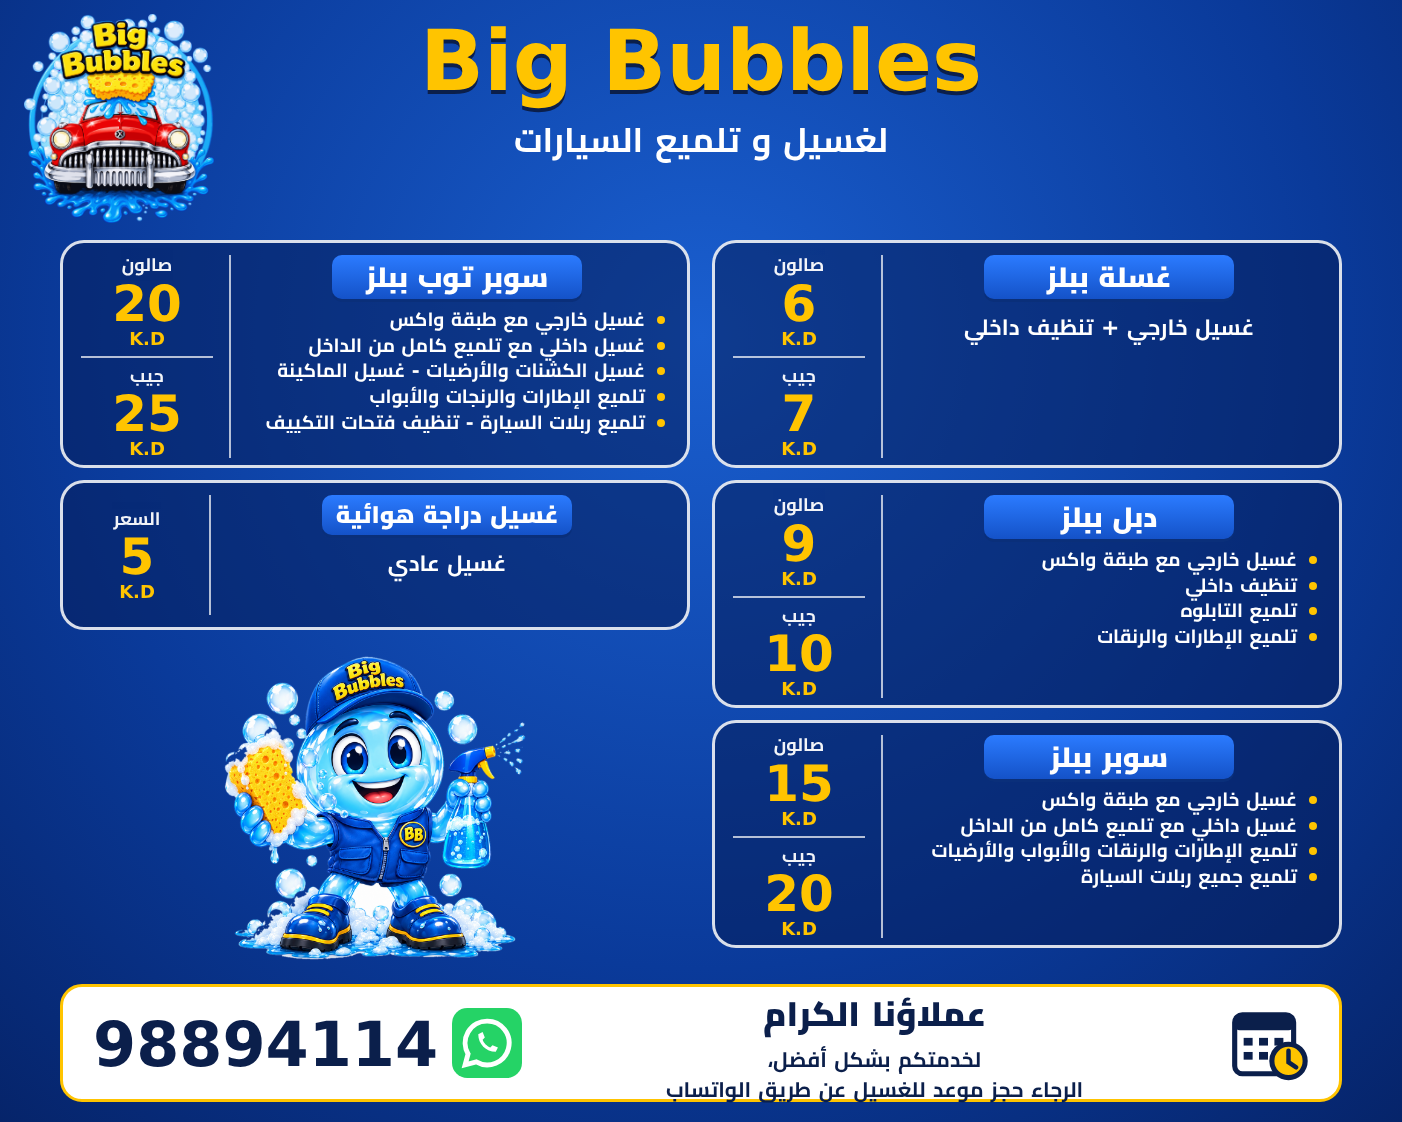
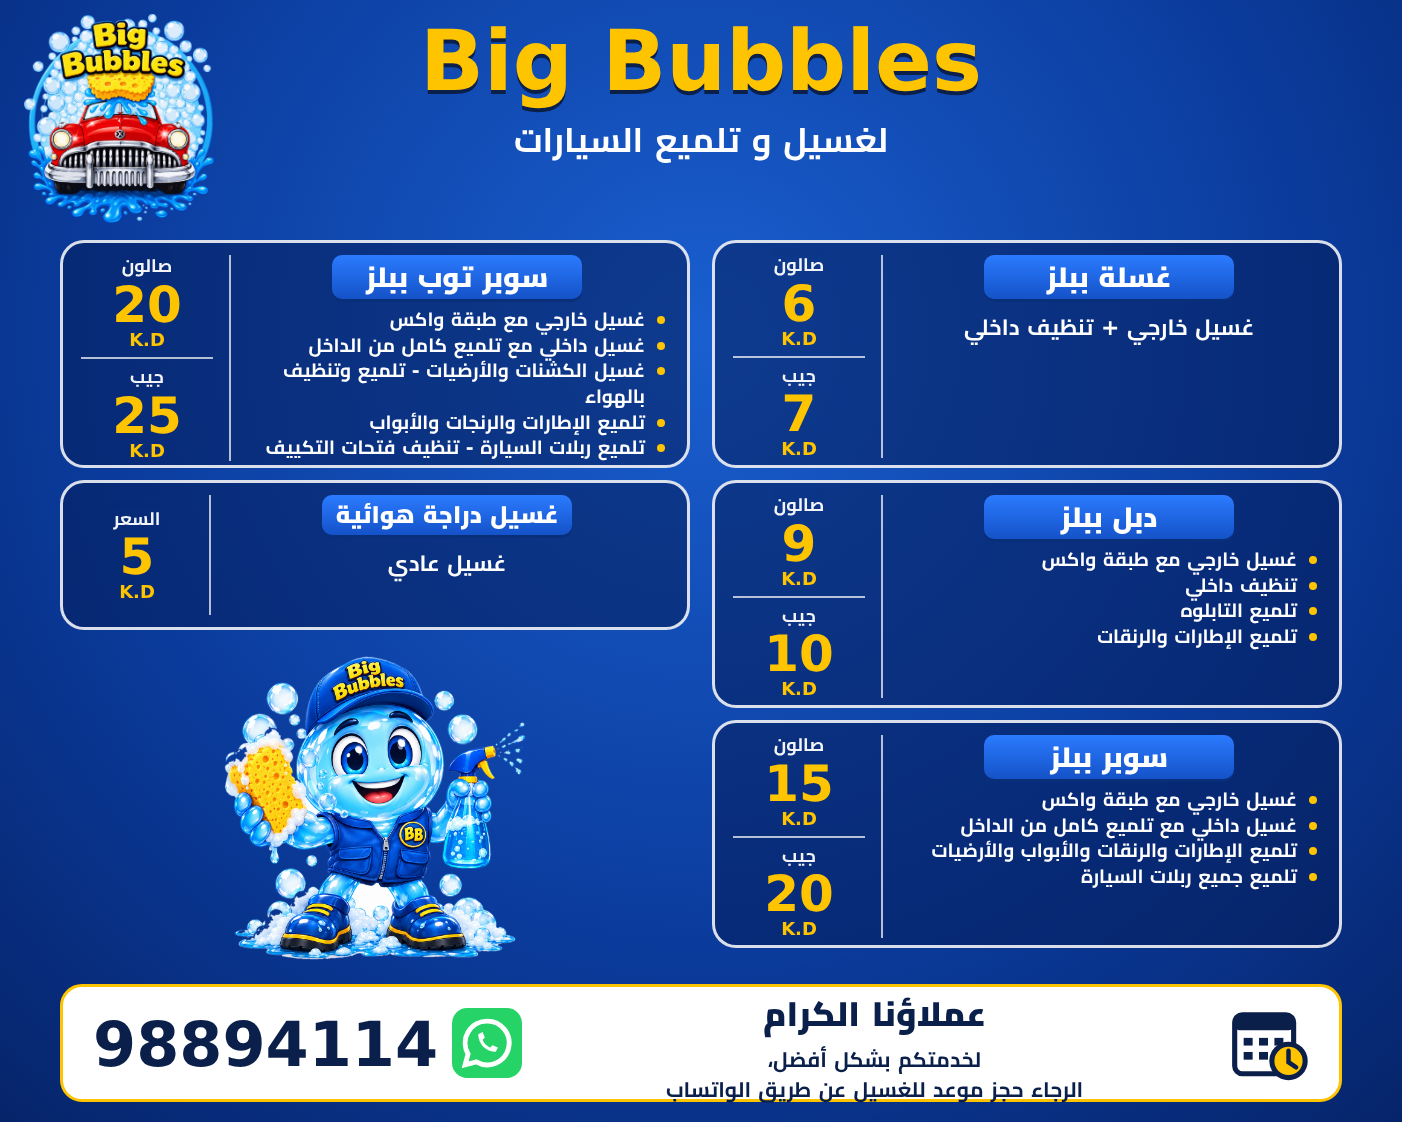
Replace engine wash in super top with polish and air cleaning

Changed region(s): [[0.184, 0.3119, 0.4601, 0.4055], [0.092, 0.2184, 0.1227, 0.4055]]

diff --git a/car-wash/designs/table/index.html b/car-wash/designs/table/index.html
@@ -65,7 +65,7 @@ body{font-family:Cairo,'DejaVu Sans',sans-serif;direction:rtl;color:#fff;positio
       <ul>
         <li>غسيل خارجي مع طبقة واكس</li>
         <li>غسيل داخلي مع تلميع كامل من الداخل</li>
-        <li>غسيل الكشنات والأرضيات - غسيل الماكينة</li>
+        <li>غسيل الكشنات والأرضيات - تلميع وتنظيف بالهواء</li>
         <li>تلميع الإطارات والرنجات والأبواب</li>
         <li>تلميع ربلات السيارة - تنظيف فتحات التكييف</li>
       </ul>
